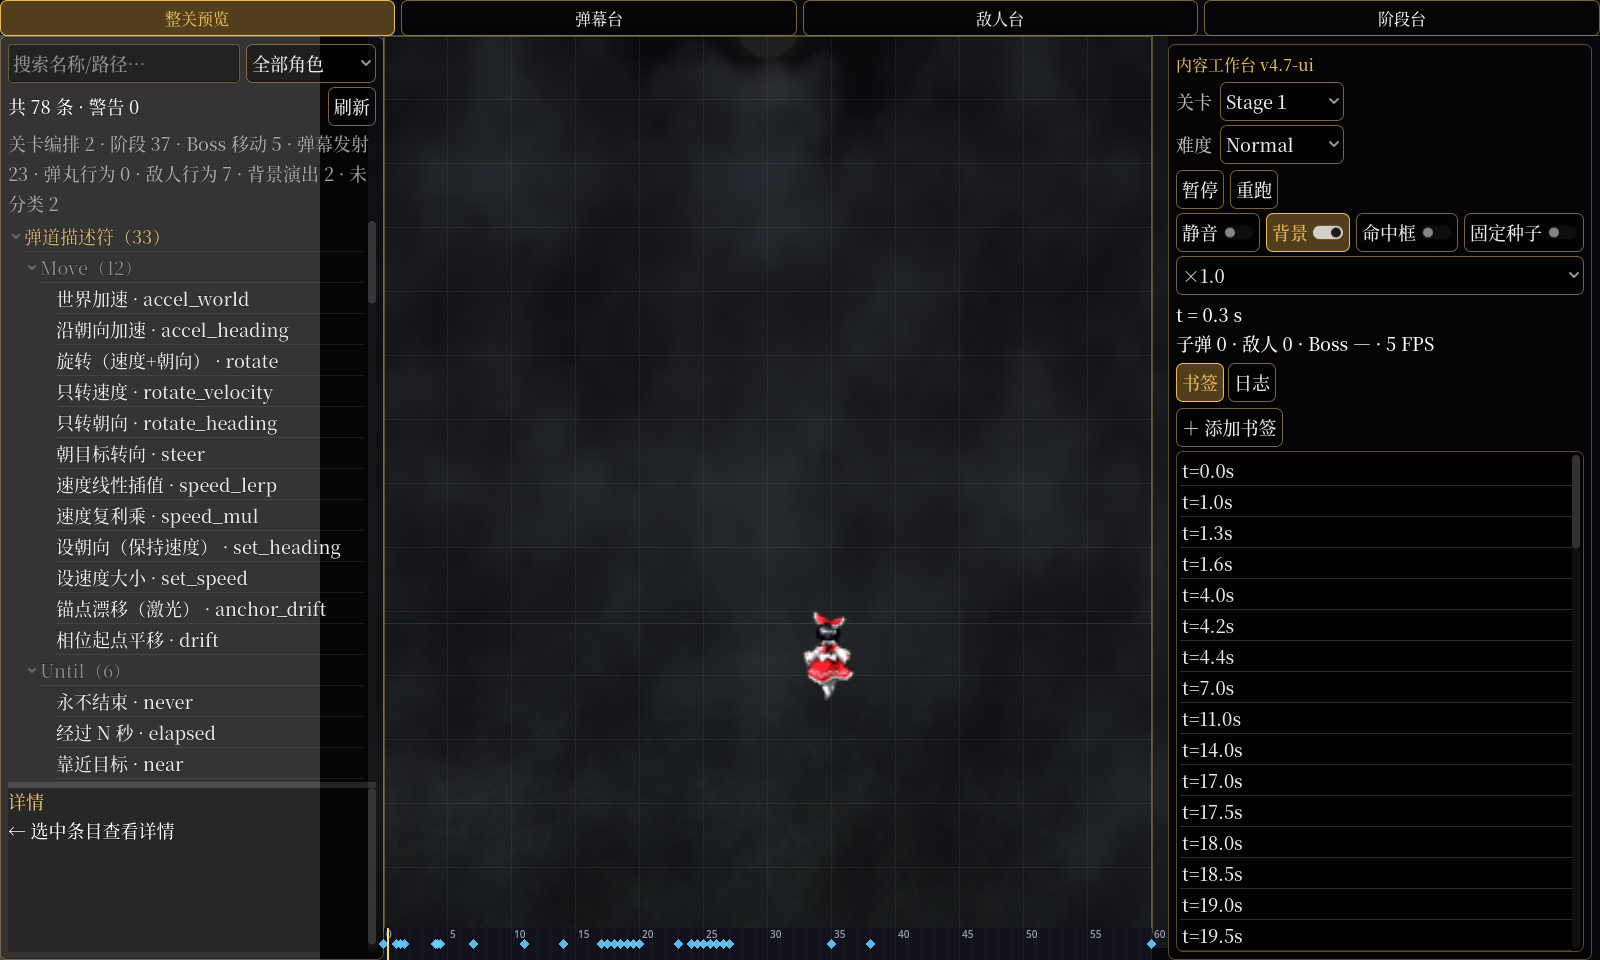
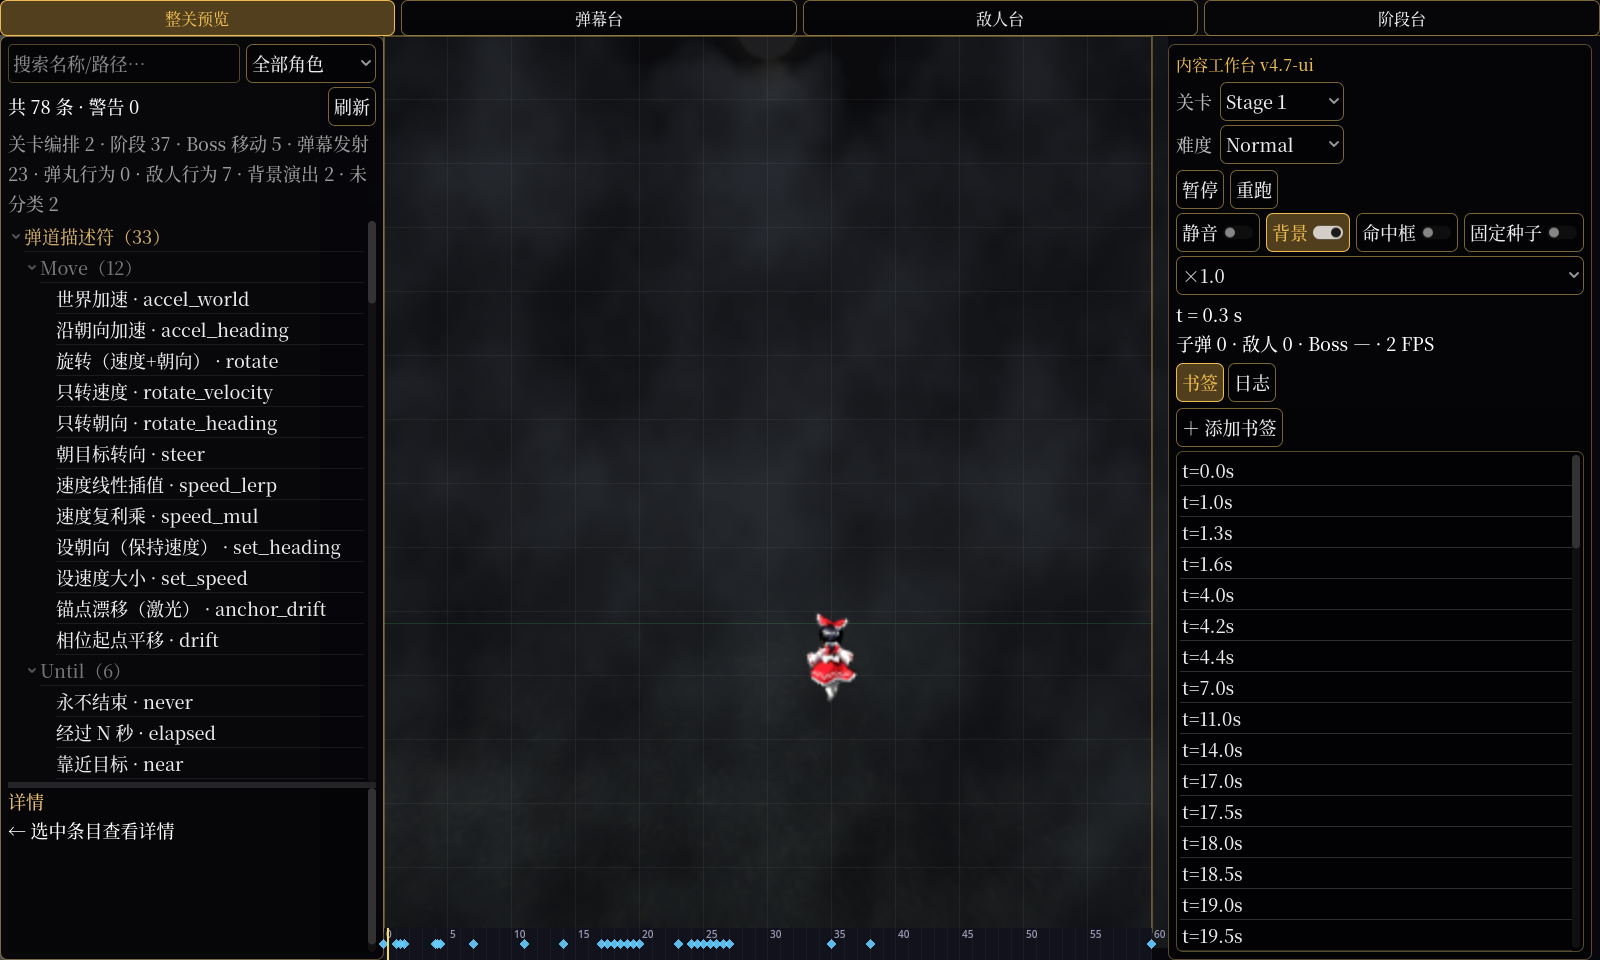
fix(workbench): 目录侧栏改不透明深色底
- 根因：目录从屏幕 x=0 起，已不在场地黑底上；32% 半透明黑盖默认灰底发灰
- 抽屉改用不透明 0.025 深色侧栏底（保留金边/圆角）
- 更新 1600 整关预览/弹幕台实拍；全量 832 / 7746，verify 七步全绿

Changed region(s): [[0.0, 0.0312, 0.2188, 1.0], [0.5, 0.625, 0.5312, 0.7188]]

diff --git a/docs/BEST_PRACTICES_LOG.md b/docs/BEST_PRACTICES_LOG.md
@@ -72,6 +72,7 @@
 - 离开创作台重置 canvas_transform / content_scale；1600 实拍场地 384..1152、右面板 1160..1592，1280 自动收起为 0..832 / 840..1272。
 - Timeline / phase 倒计时属于 CanvasLayer，不吃 canvas_transform ⇒ 单独 `set_view_offset_x` 跟场地左移；右面板保持右锚定。
 - 1600 目录常驻且隐藏关闭按钮：关闭只会留空白，画布仍需 320 偏移；1280 才显示「目录」按钮作为覆盖抽屉。
+- 目录从屏幕 x=0 起，已不在场地黑底上；抽屉改用不透明深色侧栏底（0.025），不再让 32% 半透明黑盖默认灰底发灰。
 - 全量 832 / 7746，verify 七步全绿。
 
 ### 2026-10-18 — D6：1600 布局 + 384 常驻左栏

diff --git a/docs/TEST_INDEX.md b/docs/TEST_INDEX.md
@@ -19,7 +19,7 @@
 ./tools/verify.sh --fast                             # 快速冒烟（~8s，不全量）
 ```
 
-**现状**：119 脚本 / **832 用例（832 通过 / 0 红 —— ✅ 全绿）/ 7746 断言 / 57.101s** / 19 orphans / **0 pending**。
+**现状**：119 脚本 / **832 用例（832 通过 / 0 红 —— ✅ 全绿）/ 7746 断言 / 56.935s** / 19 orphans / **0 pending**。
 
 ## 分层
 
